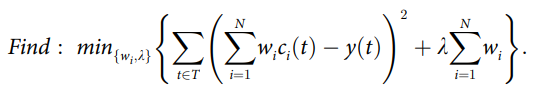
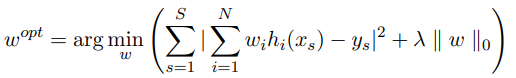
Switch equation image
Previous equation appeared to indicate that lambda is a variable in
the optimization, but believe this is misleading as it is really a
fixed regularization parameter during optimization.

diff --git a/README.md b/README.md
@@ -91,17 +91,17 @@ formulating an optimization problem in which the objective is to minimize the
 squared loss between the actual and predicted targets with the strong
 classifier.  A regularization term is also included to penalize complex models
 that include more weak classifiers.  The resulting optimization problem can be
-written as [4]:
+written as [1]:
 
 ![Objective](images/objective.png)
 
-where `t` is an index over training instances, `c_i(t)` denote the weak
-classifiers, `y(t)` denote the observed targets, `w_i` are the weights to be
-determined, and lambda is the regularization parameter.  In this demonstration,
-the weights are treated as binary variables that take a value of either 0 or 1.
-The weak classifiers are constructed from a series of single-feature decision
-tree rules, also known as decision stumps.  Following Refs. [1,4], the output of
-each weak classifier is scaled to `-1/N` and `+1/N`.
+where `s` is an index over training instances, `i` is an index over features,
+`h_i(x_s)` denote the weak classifiers, `y_s` denote the observed targets, `w_i`
+are the weights to be determined, and lambda is the regularization parameter.
+In this demonstration, the weights are treated as binary variables that take a
+value of either 0 or 1.  The weak classifiers are constructed from a series of
+single-feature decision tree rules, also known as decision stumps.  Following
+Refs. [1,4], the output of each weak classifier is scaled to `-1/N` and `+1/N`.
 
 ## Disclaimer
 
